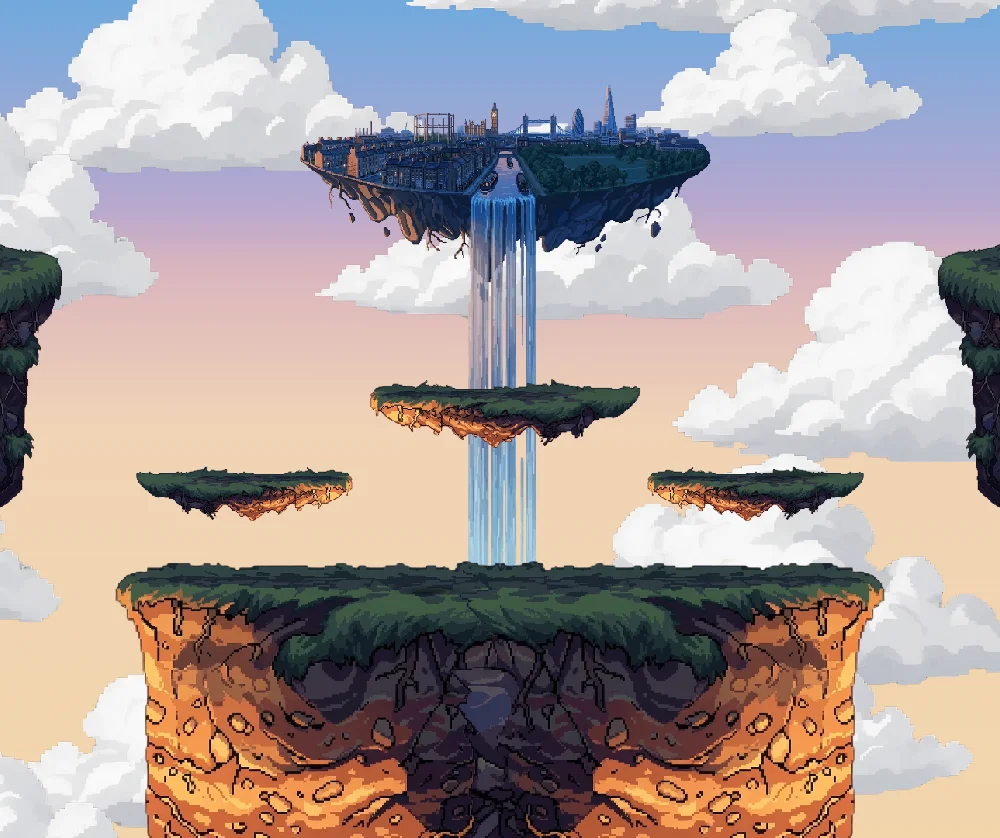
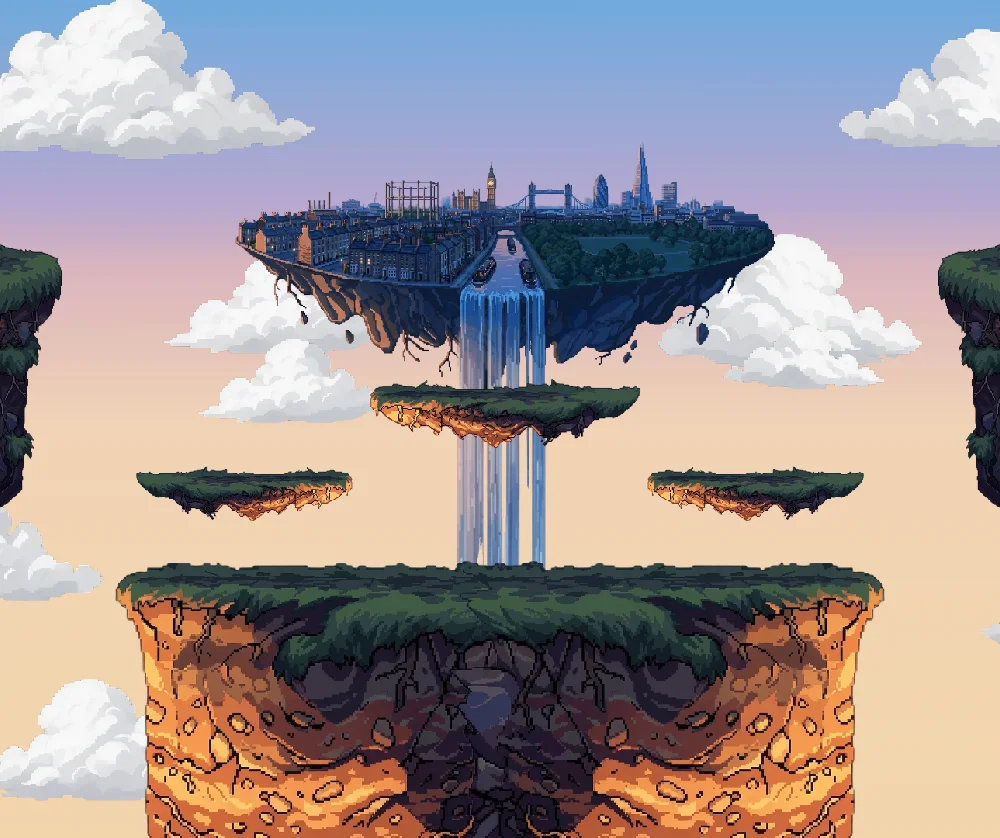
Londra Grande: bigger island, calmer clouds
The island as big as in Londra's painting, just above the top platform; its own
cloud layout, smaller and fewer, in two layers behind and in front of the
island, drifting slowly right. New map preview.

diff --git a/src/stages/LondraLayers.ts b/src/stages/LondraLayers.ts
@@ -94,10 +94,12 @@ export function defaultStageStyle(): LayeredStageStyle {
     };
 }
 
-/** Londra Grande: the island further back and higher, so its rocks don't hang behind the top platform. */
+/** Londra Grande: the island as big as in Londra's painting, just above the top platform; clouds drifting slowly right. */
 export function grandeStageStyle(): LayeredStageStyle {
     const style = defaultStageStyle();
-    Object.assign(style.elements.island, { y: -330, scale: 0.8, parallax: 0.8 });
+    Object.assign(style.elements.island, { y: -40, scale: 1.05 });
+    style.elements.backClouds.drift = 6;
+    style.elements.frontClouds.drift = 9;
     return style;
 }
 
@@ -105,6 +107,12 @@ type CloudPiece = 'cumulus_big' | 'cumulus_low' | 'cumulus_flat' | 'tower' | 'pu
 
 /** A cloud: piece, canvas position of its top-left, size against the piece as painted, mirrored. */
 type Cloud = [piece: CloudPiece, x: number, y: number, scale: number, flip?: boolean];
+
+/** The clouds behind the island and in front of it (behind the platforms and fighters). */
+export interface CloudLayout {
+    back: readonly Cloud[];
+    front: readonly Cloud[];
+}
 
 /** Laid out after the painting: behind the island above its rocks, in front of the waterfall below. */
 const BACK_CLOUDS: Cloud[] = [
@@ -131,6 +139,38 @@ const FRONT_CLOUDS: Cloud[] = [
     ['cumulus_big', 7100, 5800, 0.75, true],
     ['cumulus_flat', -800, 6664, 1],
 ];
+const PAINTING_CLOUDS: CloudLayout = { back: BACK_CLOUDS, front: FRONT_CLOUDS };
+
+/** A cloud placed by its world top-left instead of the canvas's. */
+function cloudAt(piece: CloudPiece, worldX: number, worldY: number, scale: number, flip?: boolean): Cloud {
+    return [piece, CANVAS_WIDTH / 2 + (worldX - CENTRE_X) / WORLD_PER_PIXEL, CANVAS_HEIGHT / 2 + (worldY - CENTRE_Y) / WORLD_PER_PIXEL, scale, flip];
+}
+
+/**
+ * Londra Grande's clouds: smaller and fewer than the painting's. Behind the
+ * island, a few in the upper sky and two peeking out from its sides; in front,
+ * two that just touch its rocks and a few low round the stage, never over the
+ * middle where the fighting is.
+ */
+export const GRANDE_CLOUDS: CloudLayout = {
+    back: [
+        cloudAt('cumulus_big', -380, -400, 0.55),
+        cloudAt('cumulus_flat', 1680, -330, 0.6, true),
+        cloudAt('cumulus_low', 230, 150, 0.6),
+        cloudAt('tower', 1290, 110, 0.6, true),
+        cloudAt('puff', 2330, 230, 0.6),
+        cloudAt('cumulus_flat', -760, 280, 0.55),
+    ],
+    front: [
+        cloudAt('cumulus_low', 300, 330, 0.5),
+        cloudAt('puff', 1430, 300, 0.55, true),
+        cloudAt('cumulus_flat', -520, 640, 0.6),
+        cloudAt('cumulus_big', 1980, 700, 0.5, true),
+        cloudAt('tower', -200, 1060, 0.55),
+        cloudAt('cumulus_low', 2240, 1100, 0.55),
+    ],
+};
+
 /** The layout repeats every canvas width, three times across; drifting clouds wrap round. */
 const REPEATS = [-1, 0, 1];
 const REPEAT_SPAN = REPEATS.length * CANVAS_WIDTH * WORLD_PER_PIXEL;
@@ -174,13 +214,13 @@ export class LondraLayers {
     private readonly depths = new Map<StageElementId, number>();
     private elapsed = 0;
 
-    constructor(scene: Phaser.Scene, style: LayeredStageStyle = defaultStageStyle()) {
+    constructor(scene: Phaser.Scene, style: LayeredStageStyle = defaultStageStyle(), clouds: CloudLayout = PAINTING_CLOUDS) {
         this.style = style;
         this.skyTexture = scene.textures.exists(SKY)
             ? scene.textures.get(SKY) as Phaser.Textures.CanvasTexture
             : scene.textures.createCanvas(SKY, 4, 1024)!;
         this.sky = scene.add.image(CENTRE_X, 0, SKY);
-        this.clouds = { backClouds: placeClouds(scene, BACK_CLOUDS), frontClouds: placeClouds(scene, FRONT_CLOUDS) };
+        this.clouds = { backClouds: placeClouds(scene, clouds.back), frontClouds: placeClouds(scene, clouds.front) };
         this.island = scene.add.image(0, 0, ISLAND);
         this.redrawSky();
         this.apply();

diff --git a/src/scenes/GameScene.ts b/src/scenes/GameScene.ts
@@ -10,7 +10,7 @@ import { TouchController } from '../components/TouchController';
 import { PauseMenu, type LabMenu } from '../components/PauseMenu';
 import { ControlsOverlay } from '../components/ControlsOverlay';
 import { freeStageBackgrounds, isStageKey, loadStageBackground, onlineStage, STAGES, type StageKey } from '../stages/StageBackgrounds';
-import { freeLondraLayers, grandeStageStyle, loadLondraLayers, LondraLayers } from '../stages/LondraLayers';
+import { freeLondraLayers, GRANDE_CLOUDS, grandeStageStyle, loadLondraLayers, LondraLayers } from '../stages/LondraLayers';
 import { createStage as createSharedStage } from '../stages/StageFactory';
 import { ContactShadows, DEFAULT_SHADOW_DARKNESS } from '../effects/ContactShadows';
 import { EffectManager } from '../effects/EffectManager';
@@ -607,7 +607,7 @@ export class GameScene extends Phaser.Scene implements GameSceneInterface {
     private createStage(): void {
         const stage = createSharedStage(this, this.currentStageBackground, !this.isLab);
         this.backgroundImage = stage.background;
-        this.londraLayers = this.isLab ? new LondraLayers(this) : this.isLayered ? new LondraLayers(this, grandeStageStyle()) : null;
+        this.londraLayers = this.isLab ? new LondraLayers(this) : this.isLayered ? new LondraLayers(this, grandeStageStyle(), GRANDE_CLOUDS) : null;
         this.stageTextures = [...stage.platformTextures];
 
         this.campaign?.drain([stage.background, ...stage.platformTextures]);

diff --git a/docs/LLM_CONTEXT.md b/docs/LLM_CONTEXT.md
@@ -56,7 +56,7 @@ Phaser only draws and reads input.
 - `network/`: `NetClient` (Geckos.io over WebRTC) and `OnlineMatch` (the rollback session).
 - `lighting/`: the lighting experiment: lit sprites with rim light, the camera's post-processing, the Studio Lab's LOOK mode. Drawing only.
 - `lab/`: the **Studio Lab** (main menu), two modes switched with TAB (`StudioLab.ts`), full screen (panels float) or **windowed** (the game's container narrowed to the middle, panels docked in a column each side). ESC opens the Lab's pause menu: mode, view, the player's and dummy's characters (saved; the Lab restarts with them on resume; `labSceneData()`). LOOK tunes lights, camera and stage (`lighting/LightLab.ts`); **FEEL** (`FeelLab.ts`) tunes every gameplay setting live: MOVEMENT and COMBAT panels (all of `PhysicsConfig`, grouped and labelled in `FeelCatalog.ts`), MOVES (each move's damage, knockback, angle, timing and hitbox, with its hitbox or ghost drawn on Fok), TEST (game speed, freeze F, next step N, restart R, dummy damage, infinite lives, last-hit readout, jumps measured off screen by `FeelMeasure.ts`, find box, screen effects from `config/EffectConfig.ts`). `Tuning.ts` changes the live values and puts the defaults back: every match outside the Lab calls `resetTuning()`, so online always plays the defaults. **Copy changes** gives JSON of only what differs from the defaults (`{"sgalallaFeel":1, physics, moves, effects}`); to make them defaults, put the values in `PhysicsConfig.ts`, `AttackData.ts` and `EffectConfig.ts`, add any new knockback angle to `KNOCKBACK_DIRECTIONS` (a test checks), bump `PROTOCOL_VERSION` and run `npm run replays:update`.
-- `stages/`: stage visuals (`StageFactory`) and backgrounds (`StageBackgrounds`: a match loads only its own, menus use small previews; each stage names its collision layout). **Londra Grande** (layout `grande` in `shared/StageData.ts`, for 3 to 5 players): the main platform 1600 px wide instead of 1180 (the London halves moved apart by `GRANDE_WIDEN`), a pillar on each side, the standard top platform and two lower soft platforms; blast zones move out with the edges. It's drawn from Londra's layers (`grandeStageStyle`: the island further back and higher), not the painting. Online matches of 3+ players play on it (`onlineStage`), 2 players on Adria. Each match keeps its layout in `MatchState.stage`. The Studio Lab draws Londra in layers instead (`LondraLayers`): an engine sky gradient, cloud pieces repeated behind and in front of the island, each layer with its own position, size, parallax, opacity, rim and order (even in front of the fighters), all tunable in the Lab. Lights can sit behind any layer (`behind:<element>`), at its depth and parallax; the island and clouds use the `scenery` lit group, where a light behind an object outlines its silhouette instead of lighting its face.
+- `stages/`: stage visuals (`StageFactory`) and backgrounds (`StageBackgrounds`: a match loads only its own, menus use small previews; each stage names its collision layout). **Londra Grande** (layout `grande` in `shared/StageData.ts`, for 3 to 5 players): the main platform 1600 px wide instead of 1180 (the London halves moved apart by `GRANDE_WIDEN`), a pillar on each side, the standard top platform and two lower soft platforms; blast zones move out with the edges. It's drawn from Londra's layers, not the painting: the island as big as in the painting, just above the top platform (`grandeStageStyle`), and its own calmer clouds (`GRANDE_CLOUDS`: smaller, a few behind the island peeking out, a few in front just touching its rocks, drifting slowly right). Online matches of 3+ players play on it (`onlineStage`), 2 players on Adria. Each match keeps its layout in `MatchState.stage`. The Studio Lab draws Londra in layers instead (`LondraLayers`): an engine sky gradient, cloud pieces repeated behind and in front of the island, each layer with its own position, size, parallax, opacity, rim and order (even in front of the fighters), all tunable in the Lab. Lights can sit behind any layer (`behind:<element>`), at its depth and parallax; the island and clouds use the `scenery` lit group, where a light behind an object outlines its silhouette instead of lighting its face.
 - `minigames/racing/` + `scenes/RacingScene.ts`: **CORSA** (main menu), an Outrun-style cruise. `RaceTrack.ts` builds a seeded highway loop of segments (curves, hills, roadside things); `RaceSim.ts` steps the car and 30 traffic cars at 60 Hz as plain data (no Phaser or Math.random, ready for a multiplayer race later; `CAR` holds the feel numbers); `RoadRenderer.ts` projects the road pseudo-3D onto a 480x270 canvas the scene scales up 4x with hard pixels, with parallax sky, clouds and mountains; `EngineSound.ts` synthesises engine and wind with Web Audio. Scenery, traffic and backdrop are placeholder blocks; the car is a temp sprite (`scripts/racing-car.py` shrinks it to game pixels).
 - **DERAPATE** (the donut mini-game) moved to its own project on 2026-10-11: `/Users/riccardofusetti/Documents/Coding/Derapate`, https://github.com/baguotti/derapate. Its history up to then is in this repo's DEVELOPMENT_LOG.
 - The HUD is drawn by a second camera (`uiCamera`); world objects must be hidden from it with `uiCamera.ignore(obj)`.

diff --git a/docs/DEVELOPMENT_LOG.md b/docs/DEVELOPMENT_LOG.md
@@ -1248,3 +1248,9 @@ Part 2
 - **[Change]** Protocol version 13; recordings re-baselined.
 - **[S]** tsc (client, tests, server), 68 tests (new: a trade hits both fighters), build, KO table unchanged. In the browser (muted): a fighter far off stage shows as a bubble while the camera stays inside the bounds; a KO bursts at the screen's edge; no errors.
 
+------------------------------------------------------------------------------------------------------------------------------------
+### [2026-10-16] Londra Grande: bigger island, calmer clouds (branch `experimental-branch`)
+- **[Stage]** The floating island is as big as in Londra's painting (it was shrunk to 0.8 and pushed far up), sitting just above the top platform with its waterfall behind it.
+- **[Stage]** Its own cloud layout (`GRANDE_CLOUDS`) instead of the painting's: smaller pieces (0.5 to 0.6 of their painted size) and fewer; behind the island, a few in the upper sky and two peeking out from its sides; in front of it, two that just touch its rocks and a few low round the stage, away from the middle. Both layers drift slowly left to right (6 and 9 px/s). The map-select preview is rendered again.
+- **[S]** tsc, 68 tests, build; in the browser (muted), Londra Grande beside Londra, no errors.
+
